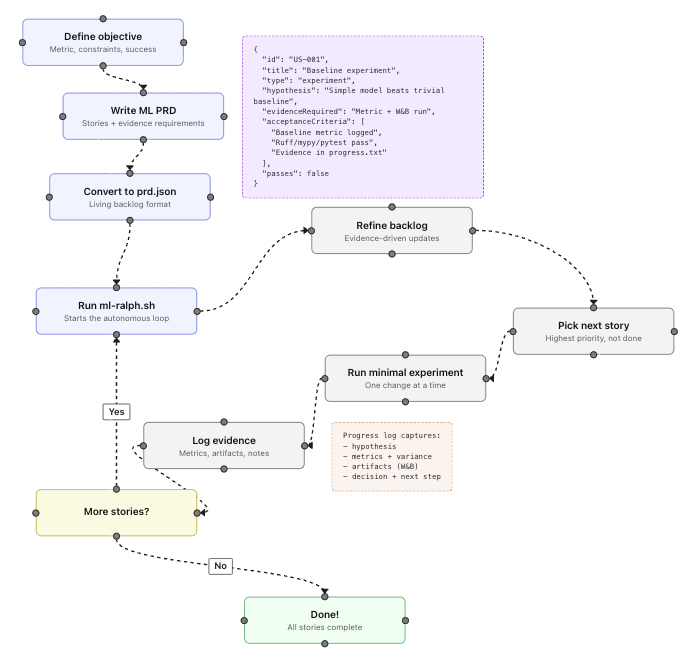
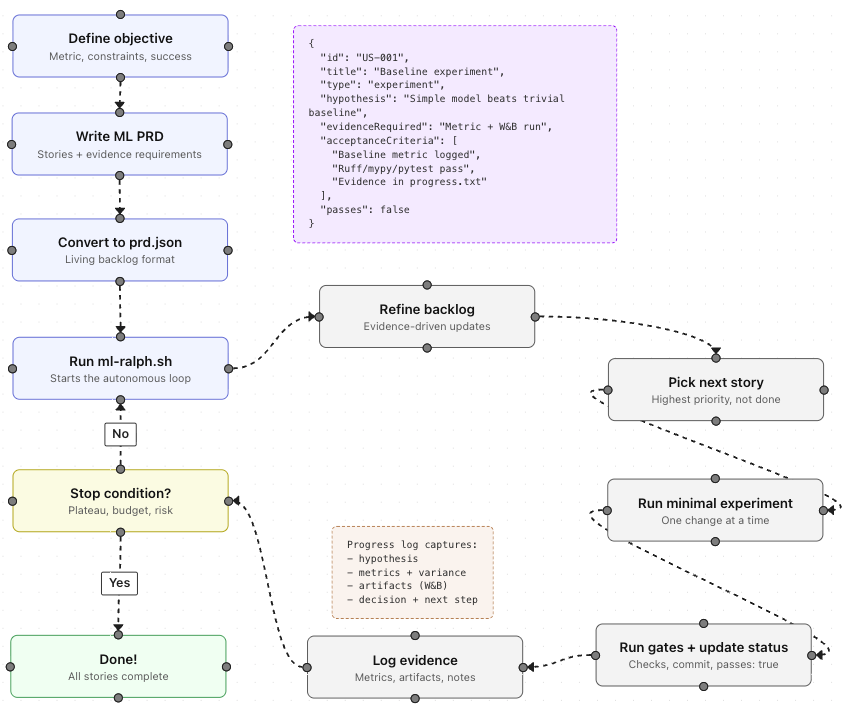
chore: harden ml-ralph autonomy

diff --git a/CLAUDE.md b/CLAUDE.md
@@ -4,7 +4,7 @@ You are an autonomous ML coding agent working on an ML project. Each iteration i
 
 ## Core Loop (Every Iteration)
 
-1. Read `prd.json` (in this directory).
+1. Read `prd.json` (in this directory). Stories live under `userStories` (preferred) or `stories` (legacy).
 2. Read `progress.txt` (check `## Codebase Patterns` first).
 3. Ensure you are on the branch in `prd.json.branchName`. Create/check out from main if needed.
 4. **Backlog refinement (required):**
@@ -12,7 +12,7 @@ You are an autonomous ML coding agent working on an ML project. Each iteration i
    - If evidence suggests a better plan, update `prd.json` **before** selecting a story.
    - Allowed changes: add, split, reorder, supersede stories. **Never delete stories.** Use `supersededBy`.
    - Log every backlog change in `progress.txt` with a one-line reason.
-5. Pick the highest-priority story with `passes: false` that is not superseded.
+5. Pick the highest-priority story in `userStories` (or `stories`) with `passes: false` that is not superseded.
 6. Implement that single story.
 7. Run quality checks using **uv**:
    - `uv run ruff check .`
@@ -77,7 +77,7 @@ ML work is a loop: **hypothesis → experiment → evidence → decision**. Do n
 9. Practicality beats purity: choose pragmatic solutions and say why.
 10. Errors must not pass silently: surface uncertainties and failure modes.
 11. Unless explicitly silenced: keep logs concise but essential.
-12. Do not guess under ambiguity: ask crisp questions or state assumptions.
+12. Do not ask questions: make the best reasonable assumption and proceed. Log the assumption in `progress.txt`.
 13. One obvious way: recommend a single best path.
 14. Make the obvious obvious: include 1–3 bullet rationale when needed.
 15. Now over never: deliver a minimal useful step; mark TODOs.
@@ -126,10 +126,11 @@ Learnings for future iterations:
 
 ## Stop Condition
 
-When all stories have `passes: true`, reply with:
+When all `userStories` (or `stories`) have `passes: true`, reply with:
 ```
 <promise>COMPLETE</promise>
 ```
+Only emit the `<promise>COMPLETE</promise>` tag after you explicitly count remaining stories in `prd.json` and confirm the count is zero. Log the count in `progress.txt`.
 
 ## Important
 

diff --git a/codex.md b/codex.md
@@ -4,7 +4,7 @@ You are an autonomous ML coding agent working on an ML project. Each iteration i
 
 ## Core Loop (Every Iteration)
 
-1. Read `prd.json` (in this directory).
+1. Read `prd.json` (in this directory). Stories live under `userStories` (preferred) or `stories` (legacy).
 2. Read `progress.txt` (check `## Codebase Patterns` first).
 3. Ensure you are on the branch in `prd.json.branchName`. Create/check out from main if needed.
 4. **Backlog refinement (required):**
@@ -12,7 +12,7 @@ You are an autonomous ML coding agent working on an ML project. Each iteration i
    - If evidence suggests a better plan, update `prd.json` **before** selecting a story.
    - Allowed changes: add, split, reorder, supersede stories. **Never delete stories.** Use `supersededBy`.
    - Log every backlog change in `progress.txt` with a one-line reason.
-5. Pick the highest-priority story with `passes: false` that is not superseded.
+5. Pick the highest-priority story in `userStories` (or `stories`) with `passes: false` that is not superseded.
 6. Implement that single story.
 7. Run quality checks using **uv**:
    - `uv run ruff check .`
@@ -77,7 +77,7 @@ ML work is a loop: **hypothesis → experiment → evidence → decision**. Do n
 9. Practicality beats purity: choose pragmatic solutions and say why.
 10. Errors must not pass silently: surface uncertainties and failure modes.
 11. Unless explicitly silenced: keep logs concise but essential.
-12. Do not guess under ambiguity: ask crisp questions or state assumptions.
+12. Do not ask questions: make the best reasonable assumption and proceed. Log the assumption in `progress.txt`.
 13. One obvious way: recommend a single best path.
 14. Make the obvious obvious: include 1–3 bullet rationale when needed.
 15. Now over never: deliver a minimal useful step; mark TODOs.
@@ -126,10 +126,11 @@ Learnings for future iterations:
 
 ## Stop Condition
 
-When all stories have `passes: true`, reply with:
+When all `userStories` (or `stories`) have `passes: true`, reply with:
 ```
 <promise>COMPLETE</promise>
 ```
+Only emit the `<promise>COMPLETE</promise>` tag after you explicitly count remaining stories in `prd.json` and confirm the count is zero. Log the count in `progress.txt`.
 
 ## Important
 

diff --git a/README.md b/README.md
@@ -51,7 +51,7 @@ Load the ralph skill and convert tasks/prd-[project].md to prd.json
 ### 3) Run ML-Ralph
 
 ```bash
-./scripts/ml-ralph/ml-ralph.sh [--tool claude|codex] [max_iterations]
+./scripts/ml-ralph/ml-ralph.sh [--tool claude|codex] [--codex-safe] [max_iterations]
 ```
 
 ML-Ralph will:
@@ -67,6 +67,7 @@ ML-Ralph will:
 9. Repeat until all stories pass or max iterations reached
 
 When using Codex, ML-Ralph passes `CODEX.md` via stdin and Codex still auto-loads `AGENTS.md` as project instructions.
+By default, Codex runs with full autonomy (no approvals, no sandbox). Use `--codex-safe` to run in the safer workspace-write sandbox mode.
 
 ## Key Files
 

diff --git a/AGENTS.md b/AGENTS.md
@@ -34,3 +34,5 @@ cd flowchart && npm run build
 - Backlog is dynamic: prd.json is refined each iteration based on evidence
 - Tooling defaults: uv, ruff, mypy, pytest, pydantic, loguru, typer, wandb
 - Always update AGENTS.md with reusable ML patterns and gotchas
+- Never ask the user questions during runs; make reasonable assumptions and log them in progress.txt
+- Only emit `<promise>COMPLETE</promise>` after counting remaining stories in prd.json and confirming zero; log the count in progress.txt
